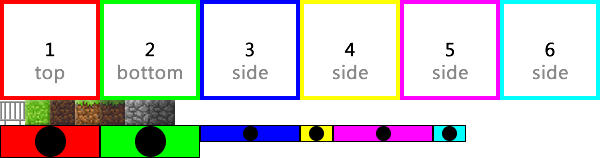
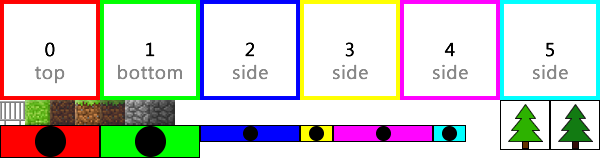
added CrossBlock type with tree example

diff --git a/js/iso.js b/js/iso.js
@@ -38,6 +38,15 @@ App.prototype.texturesLoaded = function(){
 		new Rect(333,125,100,17),
 		new Rect(433,125,33,17)
 		], BlockTexture.FACING_FRONT, true);
+	var tree = new BlockTexture(this.textures, BlockTexture.cubeRects(new Rect(500,100,50,50), [0,1,1,1,0,0]), BlockTexture.FACING_FRONT, false);
+	var treeClean = new BlockTexture(this.textures, [
+		null,
+		null,
+		new Rect(551,101,48,48),
+		new Rect(551,101,48,48),
+		new Rect(501,101,48,48),
+		new Rect(501,101,48,48)
+		], BlockTexture.FACING_FRONT, false);
 
 	this.env.layout.setItems([
 		new Block(new Point3D( 1,-1, 0), fence),
@@ -50,7 +59,7 @@ App.prototype.texturesLoaded = function(){
 		new Block(new Point3D( 2, 0, 1), grass),
 		new Block(new Point3D( 0, 1, 0), numbers),
 		new Block(new Point3D( 2, 1, 0), numbers),
-		new BlockLayout(new Point3D( 0,-1, 0), 25, [
+		new BlockLayout(new Point3D( 0,-1, 0), 25, [ // archway
 			new Block(new Point3D( 0, 3, 0), stone),
 			new Block(new Point3D( 0, 2, 0), stone),
 			new Block(new Point3D( 0, 1, 0), stone),
@@ -62,11 +71,14 @@ App.prototype.texturesLoaded = function(){
 			new Block(new Point3D( 0, 2, 3), stone),
 			new Block(new Point3D( 0, 3, 3), stone)
 		]),
-		new BlockLayout(new Point3D( 0, 0, 2), new Point3D(100,100/6,100/3), [
+		new BlockLayout(new Point3D( 0, 0, 2), new Point3D(100,100/6,100/3), [ // steps
 			new Block(new Point3D( 0, 0, 0), steps),
 			new Block(new Point3D( 0, 1, 1), steps),
 			new Block(new Point3D( 0, 2, 2), steps)
-		])
+		]),
+		new Block(new Point3D( 0,-1, 1), tree),
+		new CrossBlock(new Point3D( 1,-1, 1), tree),
+		new CrossBlock(new Point3D( 2,-1, 1), treeClean)
 	]);
 	
 	document.addEventListener("keydown", this.handleKeyDown);
@@ -460,7 +472,7 @@ function SpinMotion(transitionTime){
 SpinMotion.prototype = Object.create(Motion.prototype);
 
 SpinMotion.prototype.getToValue = function(offset){
-	return Math.PI/4 + this.step * Math.PI/10;
+	return Math.PI/4 + this.step * Math.PI/8;
 };
 
 
@@ -517,7 +529,6 @@ function BlockLayout(location, itemSize, items){
 	this.origin = new Point3D(0,0,0);
 }
 BlockLayout.prototype = Object.create(BlockLayoutItem.prototype);
-
 
 BlockLayout.sortOnPlacedZ = function(a, b){
 	return a.placement.z - b.placement.z;
@@ -603,6 +614,105 @@ Block.prototype.drawFaces = function(env, indicesList){
 			env.drawBlockFace(face);
 		}
 	}
+};
+
+
+function CrossBlock(location, texture){
+	var items = CrossBlock.generateItems(texture);
+	BlockLayout.call(this, location, null, items);
+}
+CrossBlock.prototype = Object.create(BlockLayout.prototype);
+
+CrossBlock.subLocations = [
+	new Point3D(0,0,0),
+	new Point3D(1,0,0),
+	new Point3D(0,0,1),
+	new Point3D(1,0,1),
+	new Point3D(0,1,0),
+	new Point3D(1,1,0),
+	new Point3D(0,1,1),
+	new Point3D(1,1,1)
+];
+
+CrossBlock.subFaces = [
+	[0,1,1,1,0,0],
+	[0,1,1,0,0,1],
+	[0,1,0,1,1,0],
+	[0,1,0,0,1,1],
+	[1,0,1,1,0,0],
+	[1,0,1,0,0,1],
+	[1,0,0,1,1,0],
+	[1,0,0,0,1,1]
+];
+
+CrossBlock.generateItems = function(texture){
+	var items = [];
+	var i = CrossBlock.subLocations.length;
+	while (i--){
+		items[i] = CrossBlock.generateBlock(i, texture);
+	}
+	return items;
+};
+
+CrossBlock.generateBlock = function(blockIndex, texture){
+	var loc = CrossBlock.subLocations[blockIndex].clone();
+	var rects = [];
+	var i = 6;
+	while (i--){
+		if (CrossBlock.subFaces[blockIndex][i] && texture.hasFace(i)){
+			rects[i] = CrossBlock.generateRect(blockIndex, loc, i, texture);
+		}
+	}
+
+	if (rects.length){
+		// TODO: making multiple cross blocks creates redundant textures. Store these in source texture?
+		var subTexture = new BlockTexture(texture.src, rects, BlockTexture.FACING_FRONT, texture.allowEditable);
+		return new Block(loc, subTexture)
+	}
+
+	return null;
+};
+
+CrossBlock.generateRect = function(blockIndex, location, faceIndex, texture){
+	var rect = texture.getFaceRect(faceIndex).clone();
+	rect.width = Math.floor(rect.width/2);
+	rect.height = Math.floor(rect.height/2);
+
+	var dx = 0;
+	var dy = 0;
+
+	if (faceIndex < 2){ // top & bottom
+
+		dx = location.x;
+		dy = (faceIndex === 0) ? location.z : 1 - location.z;
+
+	}else{ // sides
+
+		dx = (faceIndex % 2) ? location.z : location.x;
+		if (faceIndex === 3 || faceIndex === 4){
+			dx = 1 - dx;
+		}
+
+		dy = location.y;
+	}
+
+	if (dx){
+		rect.x += dx * rect.width;
+	}
+	if (dy){
+		rect.y += dy * rect.height;
+	}
+
+	return rect;
+};
+
+CrossBlock.prototype.place = function(env, layout){
+	// when placed, we'll know the size of our parent
+	// layout and then we can be sure to set our size
+	// to half of that (does not know in constuction)
+	this.itemSize.copy(layout.itemSize);
+	this.itemSize.scale(0.5);
+	BlockLayout.prototype.place.call(this, env, layout);
 };
 
 
